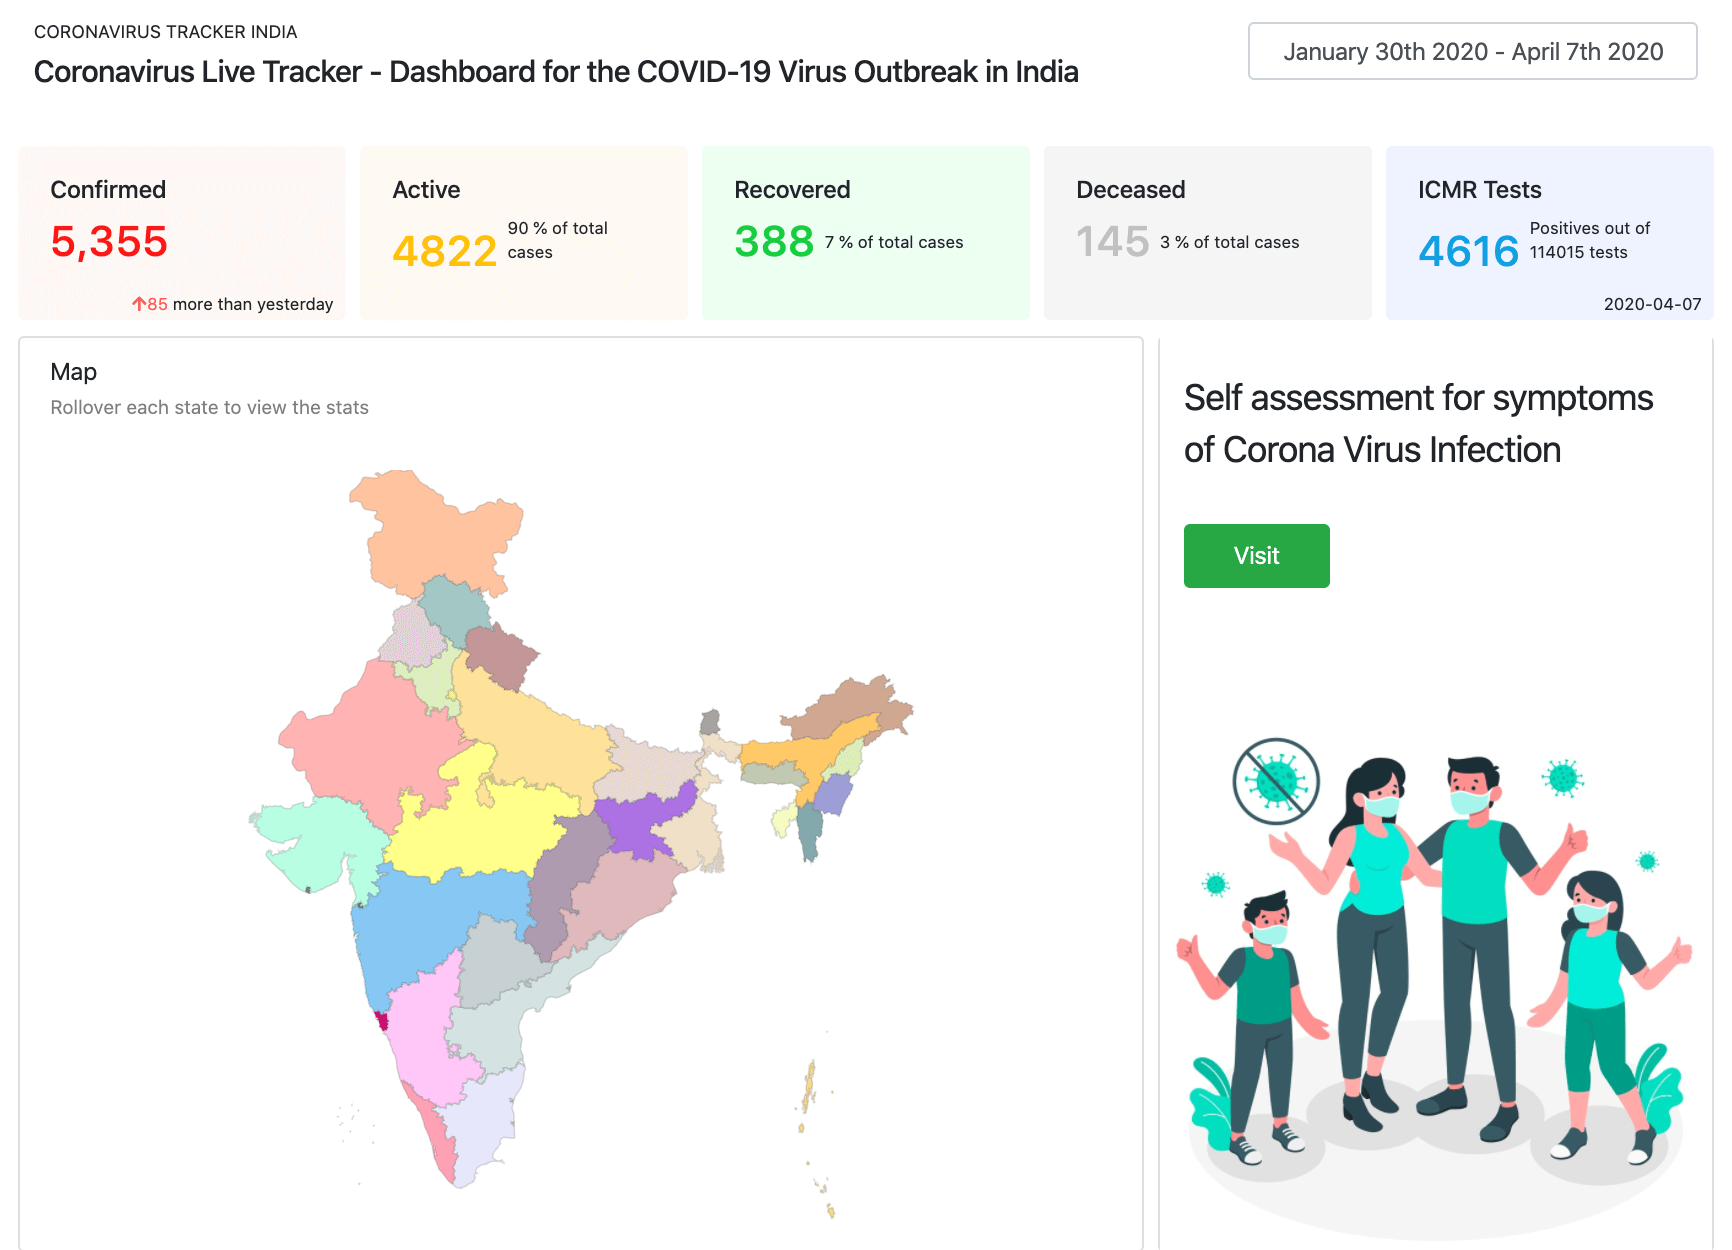
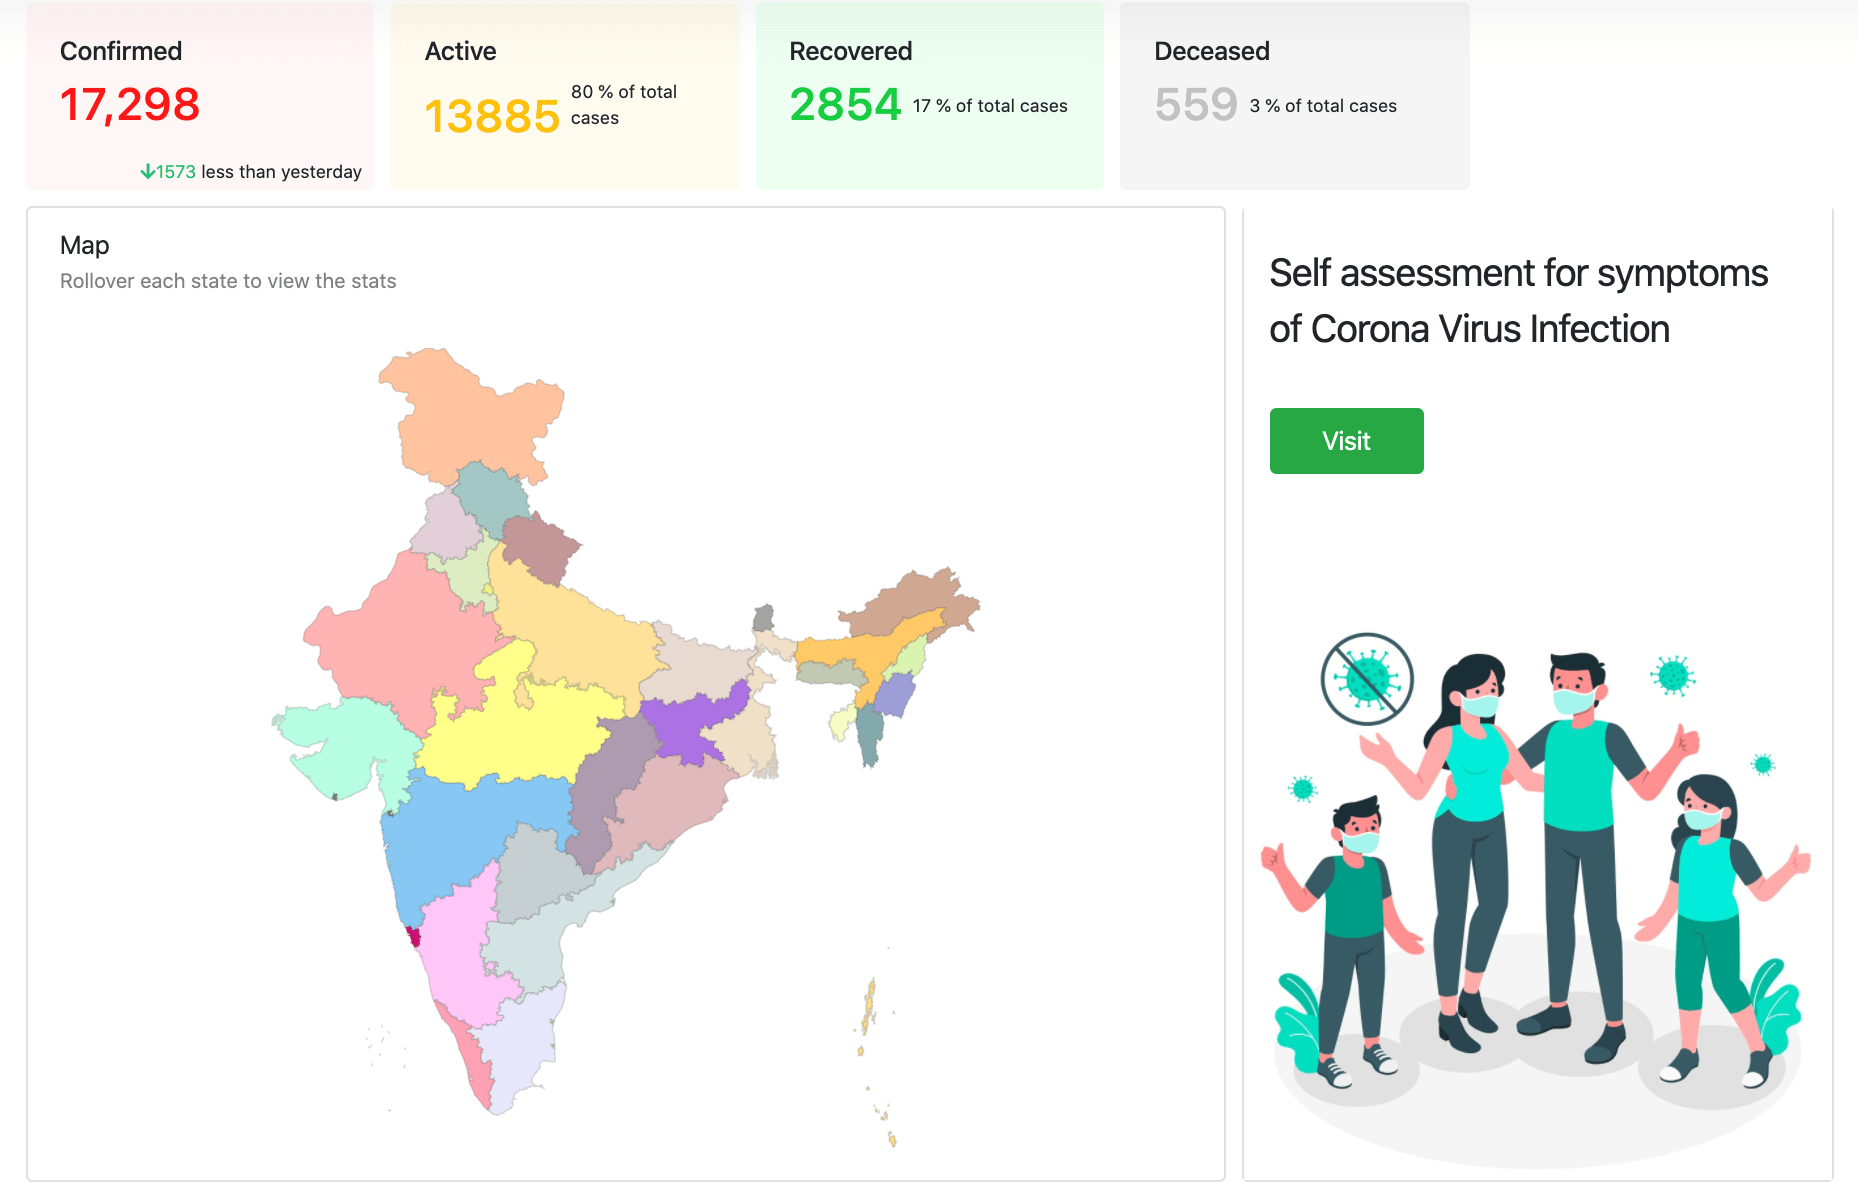
updates
updates

diff --git a/src/index.html b/src/index.html
@@ -7,23 +7,23 @@
   <meta name="HandheldFriendly" content="true">
   <meta name="MobileOptimized" content="width">
   <link href="https://indiacovid-19.in/" rel="canonical" />
-  <meta name="description" content="India Covid-19 - Coronavirus Tracker India (Live) - Dashboard - 14,802 Total,  12,134 Active, 2,168 Recovered and 500 deceased in India from Coronavirus aka Covid19 Outbreak which started from Wuhan, China. Coronavirus counter with new cases, historical data, and info. Daily charts, graphs, and updates">
-  <title>India Covid-19 - Coronavirus Tracker India (Live) - Dashboard - 14,802 Total,  12,134 Active, 2,168 Recovered and 500 deceased in India from Coronavirus aka Covid19 Outbreak</title>
+  <meta name="description" content="India Covid-19 - Coronavirus Tracker India (Live) - Dashboard - 17,298 Total,  13,885 Active, 2,854 Recovered and 559 deceased in India from Coronavirus aka Covid19 Outbreak which started from Wuhan, China. Coronavirus counter with new cases, historical data, and info. Daily charts, graphs, and updates">
+  <title>India Covid-19 - Coronavirus Tracker India (Live) - Dashboard - 17,298 Total,  13,885 Active, 2,854 Recovered and 559 deceased in India from Coronavirus aka Covid19 Outbreak</title>
   
   <base href="/">
   <meta name="keywords" content="MOHFW India,COVID-19, Data Corona Virus,Outbreak in India, India COVID-19, India, India Coronavirus, Dashboard, Aggregator, Confirmed Cases,Live, Deaths,Covid 19, Awareness, Helpline, Testing Centers, Statewise, Citywise, Analytics, Worldwide, India, News, Covid News, Contact Information, Intensive Cases, ICU, Growth Rate, Discharged, Recovered, Released, death toll, stats, statistics, Wuhan, China, Virus, New Cases, historical data, graphs, charts, updates">
   <link rel="icon" type="image/x-icon" href="favicon.ico">
-  <meta property="og:site_name" content="India Covid-19 - Coronavirus Tracker India (Live) - Dashboard - 14,802 Total,  12,134 Active, 2,168 Recovered and 500 deceased in India from Coronavirus aka Covid19 Outbreak which started from Wuhan, China. Coronavirus counter with new cases, historical data, and info. Daily charts, graphs, and updates">
-  <meta property="og:title" content="India Covid-19 - Coronavirus Tracker India (Live) - Dashboard - 14,802 Total,  12,134 Active, 2,168 Recovered and 500 deceased in India from Coronavirus aka Covid19 Outbreak">
+  <meta property="og:site_name" content="India Covid-19 - Coronavirus Tracker India (Live) - Dashboard - 17,298 Total,  13,885 Active, 2,854 Recovered and 559 deceased in India from Coronavirus aka Covid19 Outbreak which started from Wuhan, China. Coronavirus counter with new cases, historical data, and info. Daily charts, graphs, and updates">
+  <meta property="og:title" content="India Covid-19 - Coronavirus Tracker India (Live) - Dashboard - 17,298 Total,  13,885 Active, 2,854 Recovered and 559 deceased in India from Coronavirus aka Covid19 Outbreak">
   <meta property="og:url" content="https://indiacovid-19.in/">
   <meta property="og:type" content="website">
   <meta property="og:image" content="/assets/images/in-dashboard.png">
-  <meta property="og:description" content="India Covid-19 - Coronavirus Tracker India (Live) - Dashboard - 14,802 Total,  12,134 Active, 2,168 Recovered and 500 deceased in India from Coronavirus aka Covid19 Outbreak which started from Wuhan, China. Coronavirus counter with new cases, historical data, and info. Daily charts, graphs, and updates">
+  <meta property="og:description" content="India Covid-19 - Coronavirus Tracker India (Live) - Dashboard - 17,298 Total,  13,885 Active, 2,854 Recovered and 559 deceased in India from Coronavirus aka Covid19 Outbreak which started from Wuhan, China. Coronavirus counter with new cases, historical data, and info. Daily charts, graphs, and updates">
   <meta name="twitter:card" content="summary_large_image">
   <meta name="twitter:site" content="@indiacovid-19.in">
   <meta name="twitter:creator" content="@aptlogica">
-  <meta name="twitter:title" content="India Covid-19 - Coronavirus Tracker India (Live) - Dashboard - 14,802 Total,  12,134 Active, 2,168 Recovered and 500 deceased in India from Coronavirus aka Covid19 Outbreak">
-  <meta name="twitter:description" content="India Covid-19 - Coronavirus Tracker India (Live) - Dashboard - 14,802 Total,  12,134 Active, 2,168 Recovered and 500 deceased in India from Coronavirus aka Covid19 Outbreak which started from Wuhan, China. Coronavirus counter with new cases, historical data, and info. Daily charts, graphs, and updates">
+  <meta name="twitter:title" content="India Covid-19 - Coronavirus Tracker India (Live) - Dashboard - 17,298 Total,  13,885 Active, 2,854 Recovered and 559 deceased in India from Coronavirus aka Covid19 Outbreak">
+  <meta name="twitter:description" content="India Covid-19 - Coronavirus Tracker India (Live) - Dashboard - 17,298 Total,  13,885 Active, 2,854 Recovered and 559 deceased in India from Coronavirus aka Covid19 Outbreak which started from Wuhan, China. Coronavirus counter with new cases, historical data, and info. Daily charts, graphs, and updates">
   <meta name="twitter:image" content="/assets/images/in-dashboard.png">
   <meta name="author" content="@aptlogica">
   <meta name="author" content="Aptlogica Technologies">
@@ -48,7 +48,7 @@
 
         <a class="navbar-brand" href="/">
             <img src="/assets/images/covid-19-logo.png" class="covid-19-logo d-inline-block align-top" alt="">
-            <h1 style="display:none;">India Covid-19 - Coronavirus Tracker India (Live) - Dashboard - 14,802 Total,  12,134 Active, 2,168 Recovered and 500 deceased in India from Coronavirus aka Covid19 Outbreak</h1>
+            <h1 style="display:none;">India Covid-19 - Coronavirus Tracker India (Live) - Dashboard - 17,298 Total,  13,885 Active, 2,854 Recovered and 559 deceased in India from Coronavirus aka Covid19 Outbreak</h1>
         </a>
         <button class="navbar-toggler btn" type="button" onclick="toggleNavbarMobile()" data-toggle="collapse" data-target="#navbarSupportedContent" aria-controls="navbarSupportedContent" aria-expanded="false" aria-label="Toggle navigation">
             <span class="navbar-toggler-icon"></span>
